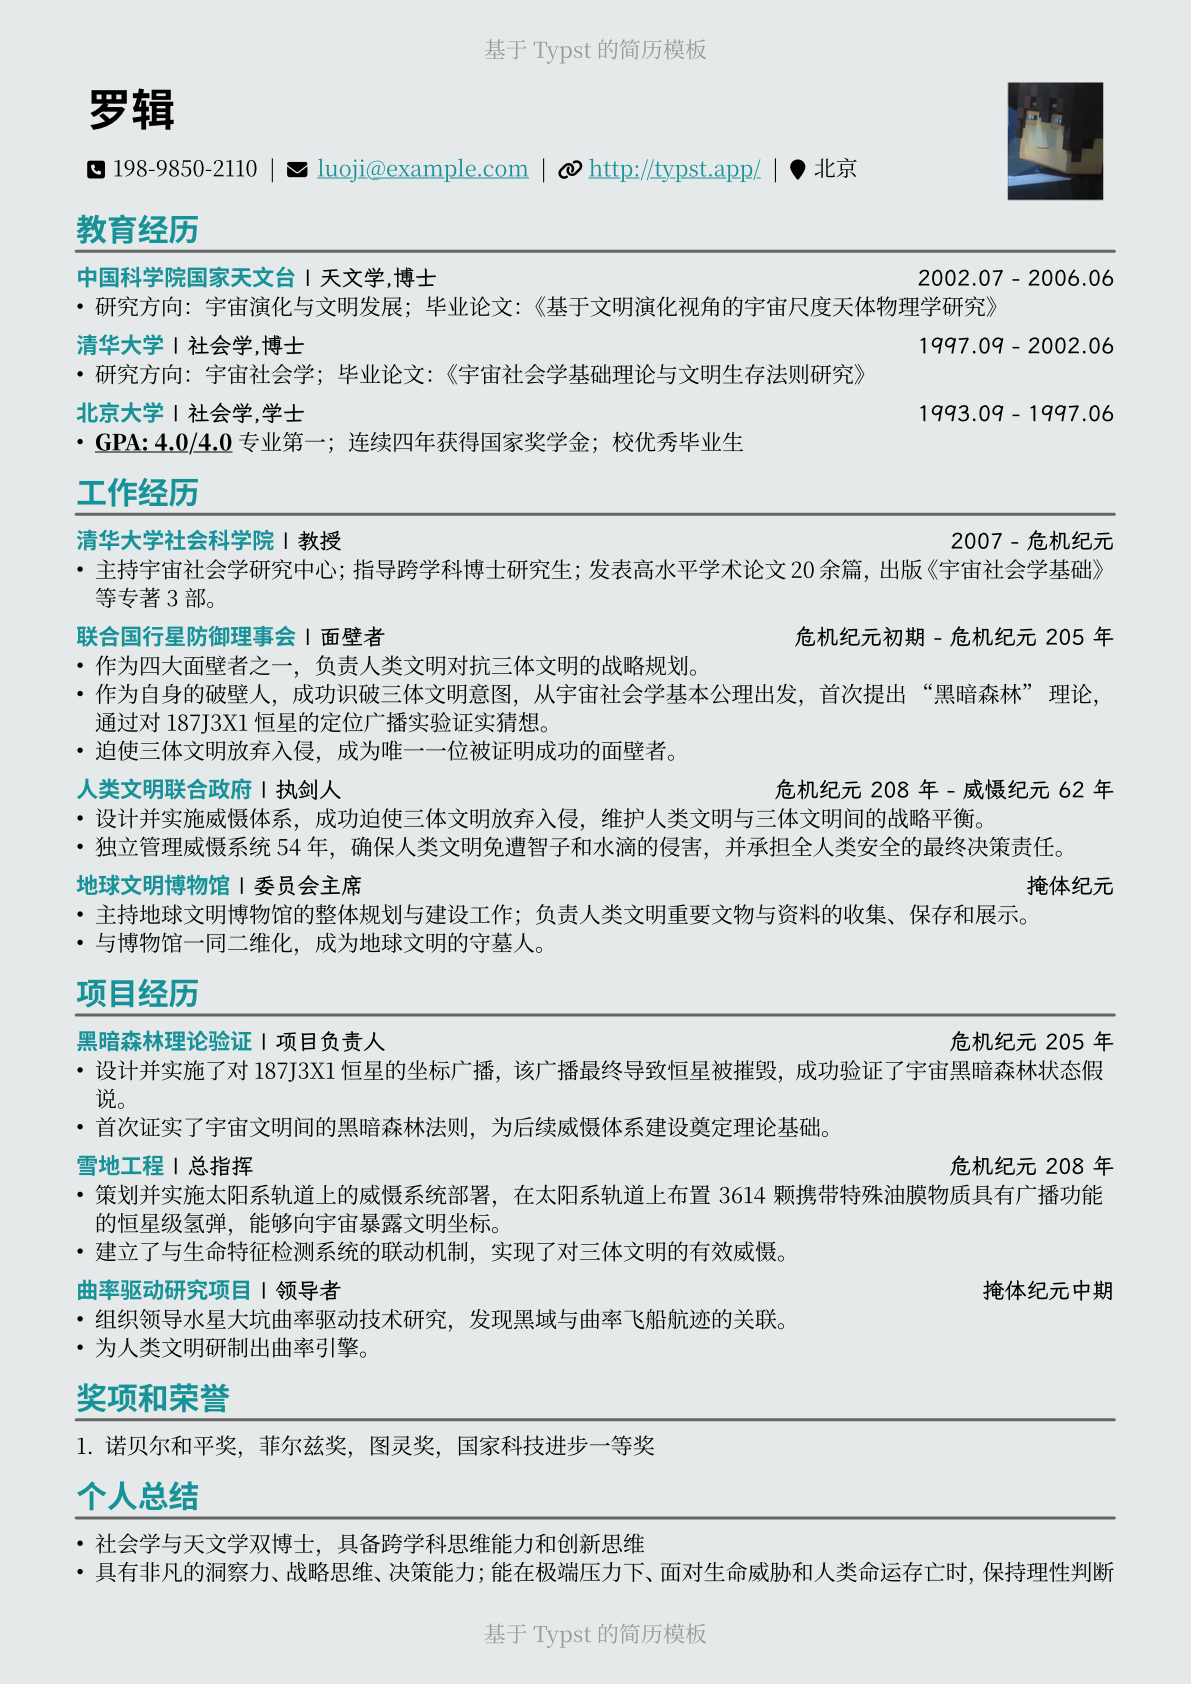
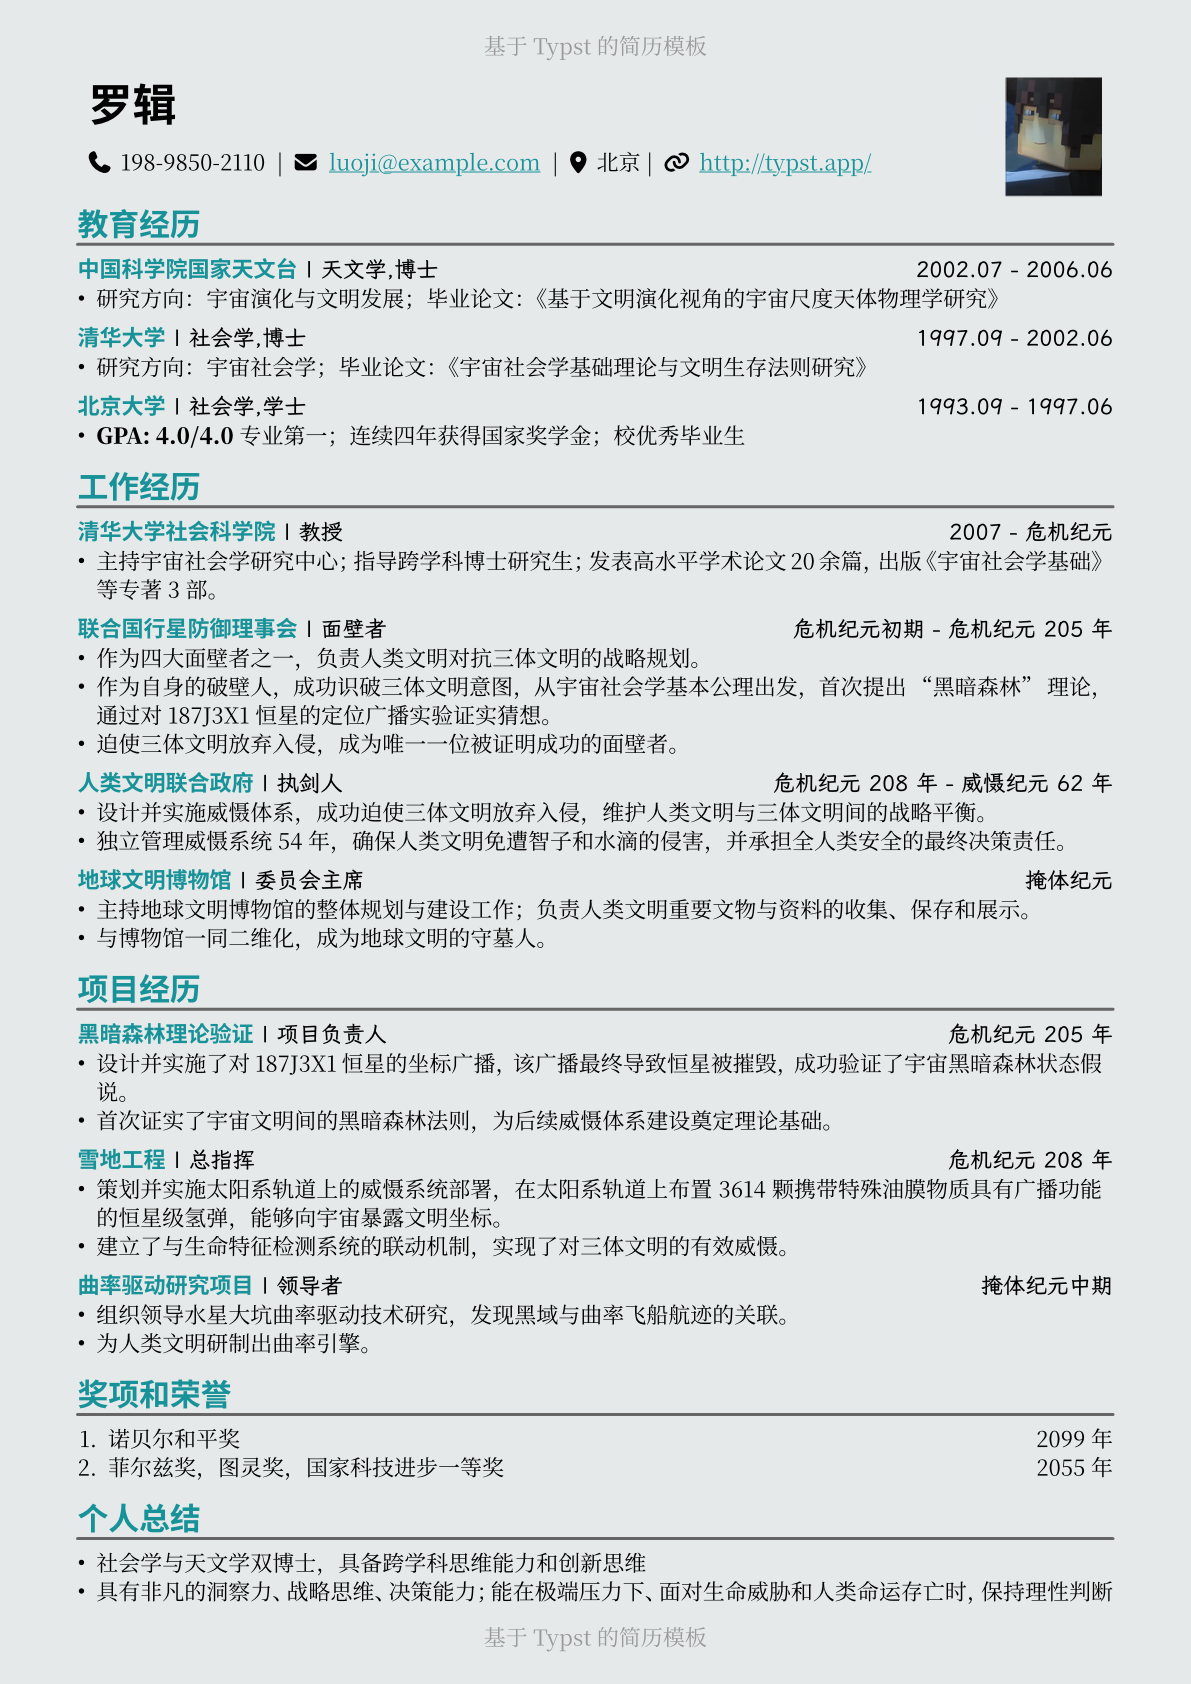
重新设计基础信息行；微调样式

Changed region(s): [[0.0621, 0.0309, 0.932, 0.9881], [0.8077, 0.7411, 0.932, 0.772], [0.5592, 0.0, 0.5903, 0.0309]]

diff --git a/README.md b/README.md
@@ -4,8 +4,6 @@
 
 基于 [Typst](https://typst.app/) 的中文简历模板。极简，易用，轻松排版，高度定制。能无痛排版让内容刚好填满一页。
 
-## 效果展示
-
 ![简历效果预览](assets/luoji.png)
 
 ---
@@ -25,15 +23,13 @@
 
 3. 编辑示例文件 `examples/luoji.typ` 或 `examples/quick_start.typ`，编写你的简历内容
 
-4. 在文件起始处点击 "Preview"，借助 Tinymist 可以实时查看效果
+4. 在文件起始处点击 "Preview"，借助插件功能可以实时查看效果
 
-5. 排版：通过调整 `font-size`、`element-spaciness` 等参数，使得内容刚好填充一页；也可以通过 `accent-color`、`serif-font` 等参数自定义样式，彰显个性。
-
-6. 点击 "Export PDF" 导出 PDF 格式简历（Tinymist 功能）。或者使用 `typst compile` 命令行工具进行编译。
+5. 点击 "Export PDF" 导出 PDF 格式简历（Tinymist 功能）。或者使用 `typst compile` 命令行工具进行编译。
 
 ## 使用指南
 
-第一步，在你的 Typst 源文件里导入模板，并初始化样式：
+**第一步**，在你的 Typst 源文件里导入模板，并初始化样式：
 
 ```typst
 #import "resume-template.typ": setup-styles
@@ -42,33 +38,41 @@
 )
 ```
 
-样式设置：
+样式设置参数：
 
-- `accent-color`：主颜色，如不需要可以设置为黑色 `rgb("#000000")`
-- `background-color`：背景色，默认是浅灰色 `rgb("#e6e9e9")`
-- `sans-serif-font`：用作正文文本的无衬线字体，默认是 Source Han Sans SC
-- `serif-font`：用作标题的衬线字体，默认是 Source Han Serif SC
-- `alt-serif-font`：第二种衬线字体，用于副标题，默认是 LXGW WenKai GB Screen
-- `font-size`：字体大小推荐 10pt 到 12pt，默认值是 11pt
-- `element-spaciness`：元素距离乘数，会同时影响页边距和行距，用于调整排版，可以尝试在 0.9 到 1.5 之间进行调整
-- `separator`：用于分隔不同信息的符号，默认是竖线
+| 参数名 | 说明 | 默认值/推荐值 |
+|---------------------|------------------------------|-------------------|
+| `accent-color`      | 主颜色，如不需要可以设置为黑色 `rgb("#000000")` | `rgb("#179299")` (青色) |
+| `background-color`  | 背景色 | `rgb("#e6e9e9")` (浅灰色) |
+| `sans-serif-font`   | 标题的衬线字体 | Source Han Sans SC (思源黑体) |
+| `serif-font`        | 正文文本的无衬线字体 | Source Han Serif SC (思源宋体) |
+| `alt-serif-font`    | 第二种衬线字体，用于副标题 | LXGW WenKai GB Screen (霞鹜文楷) |
+| `font-size`         | 字体大小（会同时影响字大小和间距），推荐 10pt–12pt | 11pt |
+| `element-spaciness` | 元素距离乘数（影响页边距和行距），可调节整体排版 | 推荐在 0.9 到 1.5 之间进行调整 |
+| `separator`         | 分隔不同信息的符号 | ` \| ` |
 
-第二步，使用 `resume-header` 填写基本信息，这里除了 `author` 外的信息都是可选的。
+请注意，如果你的设备上缺少相关字体，你可以更改为其他常见字体，或者手动安装[思源黑体](https://github.com/adobe-fonts/source-han-sans)、[思源宋体](https://github.com/adobe-fonts/source-han-serif)、[霞鹜文楷](https://github.com/lxgw/LxgwWenKai-Screen). 此外，如果你发现你的图标不能正常显示，请手动下载安装 [FontAwesome 7 字体](https://fontawesome.com/download).
+
+**第二步**，使用 `resume-header` 填写基本信息和联系方式。
 
 ```typst
 #show: resume-header.with(
   author: "你的名字",
   profile-image: "/image.png", // 头像图片路径
+  basic-info: (),              // 基础信息行内容
   telephone: "",               // 电话号码
   email: "",                   // 邮箱地址
   github-id: "",               // GitHub 用户名，会自动生成主页链接
-  other-link: "",              // 填写 URL，会自动生成链接
+  other-link: "",              // 填写任意 URL，会自动生成链接
   location: "",                // 位置，例如 [北京-海淀区]
-  extra-infos: (),             // 可以按列表形式填写其他信息
 )
 ```
 
-第三步，编写正文。
+说明：
+- 所有字段信息都可以留空不填，空字段不会显示；
+- `basic-info` 是单独设置的一行基础信息，如果填入，则会在名字下方生成两行内容。一般情况下，简历中包含联系方式和地址已经足够，如果投递简历需要其他关键基础信息，例如性别、年龄、求职意向、政治面貌等，可以填这里。如果不填该参数则不会显示基础信息行。
+
+**第三步**，编写正文。
 
 使用 `= 标题` 来创建最显眼的一级标题，通常为 “教育经历”，“项目经历”，“技能”，“荣誉奖项” 等。
 
@@ -87,5 +91,7 @@
 如果不希望使用 `resume-entry` 提供的样式，可以直接编写正文，这通常用于不需要段落区分的小节，例如 “个人总结” 或 “技能”。
 
 *One More Thing*: 现代 IDE 里面的 coding agent 只需要引用到两个 typ 文件即可获取全部上下文，你完全可以使用 Copilot/Cursor/ClaudeCode 等工具帮助你调整内容、润色文本、修改样式。
+
+---
 
 <p align="center">最后祝你求职顺利🥰~ </p>
